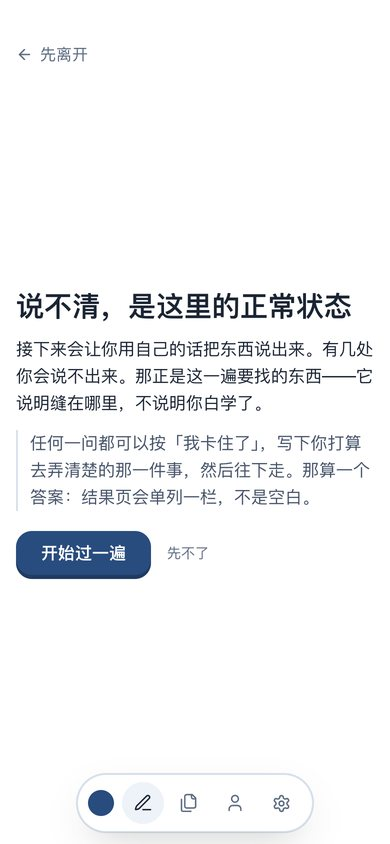
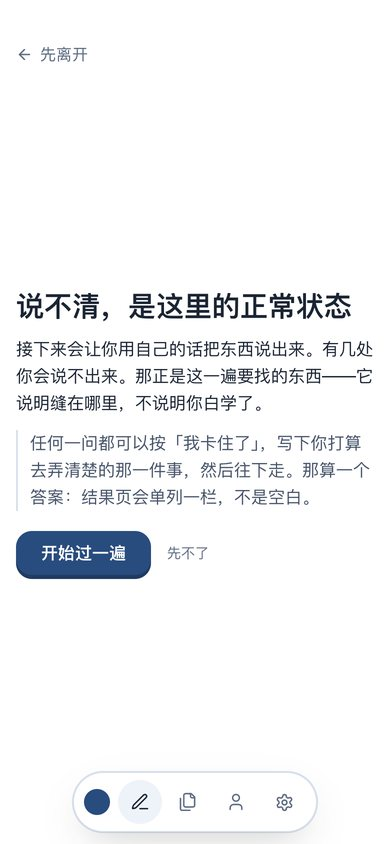
v7 R2: stop inferring from Notion, measure our own build instead — and fix what it found
The reason for cutting 09 rested on "Notion degrades on mobile too", which no
first-hand walk ever reached (it needs an account) and which had been carrying
an unverified flag since 02:1x. The proposition to prove is that a tree
degrades at 390px, and the best subject for that is our own 09, not Notion's.

Measured at 390 and 1440: the sidebar is 232x900 on a desktop and a 390x61
strip on a phone; the question drops from 47-49 characters per line to 19-20;
the tree's tappable rows are 32px at both widths, under the 44px floor, 7 of 7
on the home screen. Raising them to the floor costs 205px -> 250px of tree
height. That number is the argument now, and the Notion inference is deleted
rather than left flagged.

The same pass found two defects the eye had not:
- 01's reader header pushed the document 2px past the viewport at 390. The
  icon-button rule was unscoped, so it squeezed the flag button — which carries
  the text "这题问得不对" — into a 36px box and the label rendered outside its
  own border. 01 is the recommended shell and that label is one of the shared
  foundations printed on the sheet.
- .s-dock-btn was 42x42 against a 44px floor we enforce everywhere else.

verify:all green; sheet re-shot, 45 pairs, mean 60.7%, closest 24.4%, no
duplicate progress lines, no contrast failures, no page errors.

Changed region(s): [[0.1846, 0.8934, 0.8308, 0.9858]]

diff --git a/src/styles/shapes.css b/src/styles/shapes.css
@@ -84,7 +84,7 @@ nav.s-dock {
   box-shadow: var(--e2);
 }
 nav.s-dock .s-logo { margin-right: 4px; }
-.s-dock-btn { position: relative; display: grid; place-items: center; width: 42px; height: 42px; border-radius: 999px; color: var(--ink-3); text-decoration: none; }
+.s-dock-btn { position: relative; display: grid; place-items: center; width: 44px; height: 44px; border-radius: 999px; color: var(--ink-3); text-decoration: none; }
 .s-dock-btn[aria-current="page"] { background: var(--app-2); color: var(--ink); }
 
 /* ══ Nav · time rail (06) ═══════════════════════════════════════════════ */
@@ -137,6 +137,19 @@ nav.s-dock .s-logo { margin-right: 4px; }
   .s-side-kids { display: none; }
   .s-side-head { display: none; }
   .s-side { grid-auto-flow: column; align-items: center; justify-content: space-around; }
+  /* Below 900px the sidebar stops being a sidebar and becomes the bottom bar —
+     measured at 390 it is a 390x61 strip. A 32px row is a defensible sidebar
+     row on a desktop (Notion's are smaller still); it is not a defensible
+     bottom-bar target on a phone. Measured before this rule: 7 of 7 rows under
+     the 44px floor. */
+  .s-side-row { min-height: 44px; padding-inline: 10px; }
+  /* Same floor for the outline tree itself, which on scheme 09 is the whole
+     home screen. This is the measured cost of choosing a tree on a phone: the
+     rows were 34/32/32 and the tree 205px; at the touch floor it is 132px of
+     rows alone. Scheme 09 is not cheap on a 390px screen, and this is the
+     number that says so rather than an adjective. */
+  .s-outline-row { min-height: 44px; }
+  .s-outline-row .s-outline-name, .s-outline-row .s-outline-toggle { min-height: 44px; }
   .s-side-foot { margin-top: 0; }
 }
 
@@ -452,7 +465,11 @@ nav.s-dock .s-logo { margin-right: 4px; }
 .s-run-card-top { grid-template-columns: auto auto 1fr; }
 .s-run-card-top .s-flag { justify-self: end; }
 .s-run-rating-top .s-flag { margin-left: auto; }
-.s-run-reader-top button { display: grid; place-items: center; width: 36px; height: 36px; border: 0; background: none; color: var(--ink); cursor: pointer; }
+/* Scoped to the leave button. Unscoped, this also squeezed the flag button —
+   which carries a text label, not an icon — into a 36px box, so "这题问得不对"
+   rendered outside its own border and pushed the document 2px wider than the
+   viewport at 390. Measured, not guessed: the span's right edge was 392. */
+.s-run-reader-top > button:first-child { display: grid; place-items: center; width: 36px; height: 36px; border: 0; background: none; color: var(--ink); cursor: pointer; }
 .s-run-reader-top span:nth-child(2) { overflow: hidden; text-overflow: ellipsis; white-space: nowrap; }
 .s-reader-surface { padding: var(--space-6) 0; font-size: 1.0625rem; line-height: 1.9; }
 .s-reader-label { display: block; margin-bottom: 10px; font-size: var(--t-micro); letter-spacing: .1em; text-transform: uppercase; color: var(--ink-3); }

diff --git a/design/v7r2/OBSERVED-3.md b/design/v7r2/OBSERVED-3.md
@@ -1,0 +1,54 @@
+# 第三轮走查：不再去猜 Notion，改成量我们自己
+
+写于 2026-08-25 03:3x EDT。原始数字在 `measure-09.json`（脚本已删，产物留档）。
+
+## 为什么换方法
+
+`DECISION.md` §1 里砍掉 09 的第一条理由是「双字体折叠树在手机上会退化——Notion 自己在手机上就退化了」。
+第二轮走查没走进 Notion 编辑器（要登录），所以这条一直挂着「截图推断，未验证」的标记。
+
+第三轮不再绕这个弯。**要证的命题是「树形导航在 390px 上退化」，最好的被测对象是我们自己的 09**，
+不是 Notion。在自己的构建上量，证据等级从「推断别人的产品」升到「实测我们的产品」。
+
+方法：390×844 和 1440×900 两个视口，走 `?ui=NN` 进真实会话，量导航容器、可点行、题干测量宽度、
+以及 `document.scrollWidth` 是否超出视口。四个方案对照：09（sidebar）、01（dock）、02 / 04（topbar）。
+
+## 量到的三件事
+
+### 1. 09 确实退化，而且有数字（命题成立）
+
+| | 1440 | 390 |
+|---|---|---|
+| `.s-side` 侧栏 | **232 × 900**（真侧栏） | **390 × 61**（塌成底部条） |
+| 题干每行字数 | 47–49 | **19–20** |
+| 树的可点行高 | 32px | **32px** |
+
+**结论**：侧栏在手机上根本不是侧栏，是一条 61px 的底栏；而树的行高在两个视口都是 32px，
+**低于 44px 触控下限**（首页 7 行全部低于，练习屏 4 行全部低于）。
+
+**把它修到下限之后，代价也量出来了**：行高 34/32/32 → 54/44/44，树的总高 **205px → 250px（+22%）**。
+这就是「在手机上选树」的价格——不是形容词，是一个数字。砍 09 的建议不变，但现在理由是我们自己的实测，
+Notion 那条推断**从论据里撤掉**，不再需要它。
+
+### 2. 01「那页纸」的顶栏在 390 上把内容顶出了视口（真 bug，已修）
+
+`document.scrollWidth = 392 > 390`。定位到唯一越界元素：`.s-flag` 里那句「这题问得不对」，
+右边缘落在 **392px**。
+
+根因：`.s-run-reader-top button { width: 36px; height: 36px }` **没有限定作用域**，
+把带文字标签的旗标钮也压成了 36px 的图标钮，文字于是渲染到按钮边框之外。
+改成 `> button:first-child` 只作用于返回钮之后：旗标钮恢复成 116px 的胶囊，`scrollWidth` 回到 390。
+
+**这条值得单独说**：01 是 `DECISION.md` 推荐的主线之壳，而「练习屏常驻『这题问得不对』」
+是总表上写的**共同地基**之一。地基在推荐方案上是破的，肉眼还看不出来（文字溢出到边框外仍然可读）。
+
+### 3. `.s-dock-btn` 是 42×42，差 2px（已修为 44）
+
+01 的底部 dock 按钮。不是致命问题，但既然全局在守 44px 下限，就没有理由留一个 42。
+
+## 这一轮没做到的
+
+- **仍然没有走进 Notion 编辑器**，需要账号。差别在于：现在**不需要它了**——命题已经在我们自己的
+  构建上证到了。`DECISION.md` §1 里那条 Notion 论据我直接删掉，而不是继续挂着「未验证」。
+- 只量了 09 / 01 / 02 / 04 四个方案。另外六个的触控下限**没有逐个量过**，别把这一轮的结论
+  推广成「十个方案都合规」。

diff --git a/design/v7r2/DECISION.md b/design/v7r2/DECISION.md
@@ -19,11 +19,12 @@ Wang 尚未拍板；按他对本项目的长期指令，未决问题写下默认
 | **差异化赌注（做，但当实验做）** | **10 卡片** | 「先表态、再展开说」是元认知校准最干净的取数方式，也是大厂最难顺手做掉的方向。**但见 §3：这条没有一手先例。** |
 
 **建议砍掉：09 大纲、07 今日一组。**
-- 09 的形式支点（双字体折叠树）在手机上会退化——Notion 自己在手机上就退化了，而我们的用户在手机上。
-  ⚠ **证据等级更正（2026-08-25 02:1x，见 `OBSERVED-2.md` §二）**：第二轮一手走查只走到 Notion 的
-  公开模板库，**没有走进编辑器**。所以「Notion 自己在手机上就退化」这句话目前仍是**截图推断，不是一手证据**。
-  砍 09 的建议不变（它还有第二个理由：我们的用户在手机上），但这条论据在最终交付里必须标成未验证，
-  或者补一次真正的编辑器走查。
+- 09 的形式支点（双字体折叠树）在手机上会退化。
+  ✅ **证据已升级为一手实测（2026-08-25 03:3x，见 `OBSERVED-3.md` §1，原始数字 `measure-09.json`）**：
+  不再拿 Notion 说事，直接量我们自己的 09。侧栏 1440 上是 **232×900**，390 上塌成 **390×61 的底栏**；
+  题干每行从 47–49 字掉到 **19–20 字**；树的可点行高两个视口都是 **32px，低于 44px 触控下限**
+  （首页 7 行、练习屏 4 行全部低于）。修到下限之后树高 **205px → 250px（+22%）**——这就是在手机上
+  选树的价格。**原来那条「Notion 自己也退化」的推断已从论据里删除，不再需要。**
 - 07 的致命处不是交互，是**内容供给**：我们的用户不是天天有新作业，「今天 5 问」一周后只能重复回访题。
   留存好看，但那是假的留存。
 
